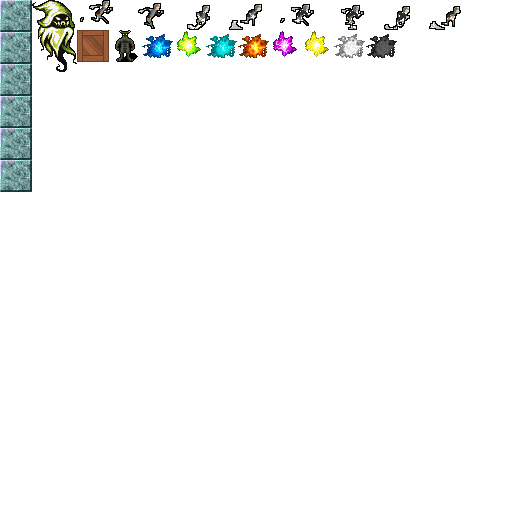
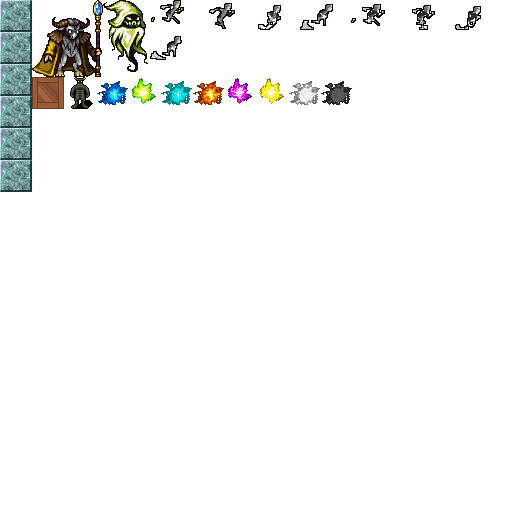
Add a bigger monster on the ts

Changed region(s): [[0.0625, 0.0, 0.9375, 0.2188]]

diff --git a/game.py b/game.py
@@ -9,13 +9,13 @@ import traceback
 import random
 import os
 
-music_start = 12 * 1000
+music_start = 57 * 1000
 
 
 class DifficultyChooser(ui.UIElement):
     def __init__(self, parent, bl, tr, text_options, scale, colour):
         self.text_options = text_options
-        self.current_text = 0
+        self.current_text = 3
         self.scale = scale
         self.text_colour = colour
         self.alignment = (drawing.texture.TextAlignments.CENTRE,)
@@ -51,12 +51,12 @@ class DifficultyChooser(ui.UIElement):
 class Bolt:
     speed = 5
 
-    def __init__(self, tc):
-        self.tc = tc
+    def __init__(self, atlas):
         self.pos = None
         self.target = None
         self.size = Point(64, 64)
-        self.quad = drawing.Quad(globals.quad_buffer, tc=tc)
+        self.atlas = atlas
+        self.quad = drawing.Quad(globals.quad_buffer)
 
     def disable(self):
         self.quad.disable()
@@ -70,7 +70,6 @@ class Bolt:
         pos = self.pos + (self.size / 2)
         self.quad.set_vertices(self.pos, self.pos + self.size, 10)
         self.last = globals.music_pos
-        print(f"New bolt at {self.pos=} {target.current_pos=}")
 
     def update(self, music_pos):
         elapsed = music_pos - self.last
@@ -85,6 +84,11 @@ class Bolt:
         self.pos += move
         self.quad.set_vertices(self.pos, self.pos + self.size, 10)
 
+    def set_type(self, num):
+        self.quad.set_texture_coordinates(
+            self.atlas.texture_coords(f"resource/sprites/magic_bolt_{num%8+1}.png")
+        )
+
 
 class Sprite:
     fps = 12
@@ -95,20 +99,19 @@ class Sprite:
     def __init__(self, parent, bl, tr, tc_names, atlas):
         self.bl = bl
         self.tr = tr
+        self.size = self.tr - self.bl
         self.parent = parent
         self.tc_coords = [atlas.texture_coords(name) for name in tc_names]
         self.quad = drawing.Quad(globals.quad_buffer, tc=self.tc_coords[0])
         self.quad.set_vertices(bl, tr, 50)
         self.per_frame = 1000 / self.fps
         self.jumping = False
-        self.pos = 0
-        self.last_pos = self.pos
+        self.pos = Point(0, 0)
+        self.start_pos = self.bl
         self.velocity = 0
         self.ducking = False
         # We make 16 secret bolt sprites and set them to disabled
-        self.bolts = [
-            Bolt(atlas.texture_coords(f"resource/sprites/magic_bolt_{i%8+1}.png")) for i in range(16)
-        ]
+        self.bolts = [Bolt(atlas) for i in range(16)]
         for bolt in self.bolts:
             bolt.disable()
 
@@ -133,23 +136,23 @@ class Sprite:
 
         if self.jumping:
             t = music_pos - self.jumping
-            self.pos = (self.jump_velocity * t) + (self.gravity * t * t)
-            if self.pos < 0:
-                self.pos = 0
+            self.pos = Point(0, (self.jump_velocity * t) + (self.gravity * t * t))
+            if self.pos.y < 0:
+                self.pos = Point(0, 0)
                 self.jumping = False
-            self.quad.translate(Point(0, self.last_pos - self.pos))
-            self.last_pos = self.pos
+            pos = self.start_pos + self.pos
+            self.quad.set_vertices(pos, pos + self.size, 50)
 
             return
 
         pos = int(music_pos // self.per_frame) % len(self.tc_coords)
         self.quad.set_texture_coordinates(self.tc_coords[pos])
 
-    def jump(self):
+    def jump(self, high=False):
         # For a jump we switch to a fixed image for the duration, and arc upwards in a parabola
         self.jumping = globals.music_pos
         self.quad.set_texture_coordinates(self.tc_coords[0])
-        self.velocity = 10
+        self.jump_velocity = 2.4 if high else 2
         self.last_pos = 0
 
     def duck(self):
@@ -157,15 +160,15 @@ class Sprite:
         self.quad.set_texture_coordinates(self.tc_coords[2])
         self.quad.translate(Point(0, 32))
 
-    def shoot(self):
+    def shoot(self, num):
         # We create a new active bolt
         if len(self.bolts) == 0:
-            print("no more")
             return
 
         bolt = self.bolts.pop(0)
         bolt.set_pos(Point(*self.quad.vertex[0][:2]), self.parent.right_track)
         bolt.target = self.parent.right_track
+        bolt.set_type(num)
         bolt.enable()
         self.active_bolts.append(bolt)
 
@@ -324,7 +327,6 @@ class NoteTiming:
                     # Line of the form +n/m means the previous entry was the start, the next was the end, and they're m beats apart, with the first n set
                     n, m = (int(v) for v in line[1:].split("/"))
                     interval = [note, n, m]
-                    print(interval)
                     continue
                 ms, duration, instrument, note, difficulty = line.split(",")
                 ms, duration, difficulty = (float(v) for v in (ms, duration, difficulty))
@@ -343,8 +345,6 @@ class NoteTiming:
 
                 self.notes.append(note)
 
-        for note in self.notes:
-            print(note.time)
         self.current_note = 0
         self.notes.sort(key=lambda note: note.time)
         self.current_play = self.notes[::]
@@ -534,6 +534,10 @@ class Wall(Monster):
     image = "resource/sprites/low_wall.png"
 
 
+class BigMonster(Monster):
+    image = "resource/sprites/big_monster.png"
+
+
 class Track:
     speed = 0.5  # widths per second. I.e 0.5 = take 2 seconds to transit the whole the tack
     window_before = 150
@@ -676,6 +680,16 @@ class MonsterTrack(Track):
                         time,
                         note,
                         size=Point(monster_size, monster_size),
+                        pos=parent.absolute.bottom_right + Point(300, 214),
+                        speed=self.absolute_speed,
+                    )
+                )
+            if note.note in ["t"]:
+                self.monster_starts.append(
+                    BigMonster(
+                        time,
+                        note,
+                        size=Point(121, 131),
                         pos=parent.absolute.bottom_right + Point(300, 214),
                         speed=self.absolute_speed,
                     )
@@ -926,10 +940,12 @@ class GameView(ui.RootElement):
         if block:
             if block.key in [ord("a"), ord("q")]:
                 self.player.jump()
+            elif block.key == ord("t"):
+                self.player.jump(high=True)
             elif block.key in [ord("d"), ord("e")]:
                 self.player.duck()
             elif block.key in range(ord("0"), ord("9")):
-                self.player.shoot()
+                self.player.shoot(block.key - ord("0"))
 
         self.miss_streak = 0
 
